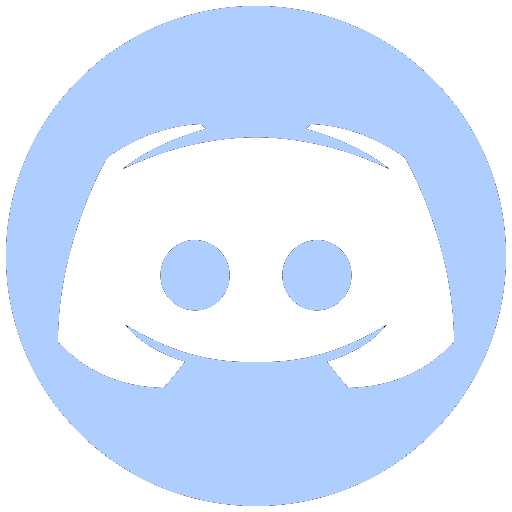
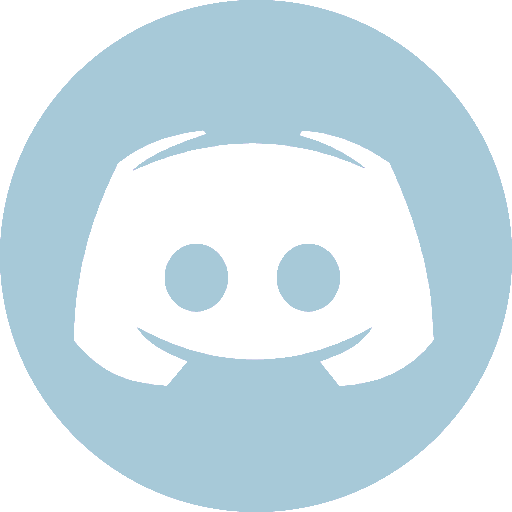
Changement du style

diff --git a/style.css b/style.css
@@ -4,12 +4,12 @@
 	font-family: calibri;
 	list-style-type: none;
 	font-size: 20px;
-	color: rgb(173, 206, 255, 1);
+	color: rgb(167, 201, 216, 1);
 }
 
 html, body {
 	height: 100%;
-	background-color: rgb(0, 9, 22);
+	background-color: rgb(21, 31, 55, 1);
 }
 
 
@@ -44,12 +44,12 @@ footer img {
 
 h1 {
 	font-size: 60px;
-	color: rgb(0, 9, 22);
+	color: rgb(21, 31, 55, 1);
 }
 
 h2 {
 	font-size: 50px;
-	color: rgba(0, 9, 22, 1);
+	color: rgb(21, 31, 55, 1);
 }
 
 h3 {
@@ -70,7 +70,11 @@ h5 {
 
 hr {
 	margin : 20px 0 0 0;
-	color: rgb(173, 206, 255, 0.5)
+	color: rgb(167, 201, 216, 0.5);
+}
+
+#logo {
+	width: 200px;
 }
 
 #page_content, footer {
@@ -116,7 +120,7 @@ section>ul>li, section>ul>li>ul>li {
 }
 
 .element {
-	background-color: rgb(173, 206, 255, 1);
+	background-color: rgb(167, 201, 216, 1);
 	width: 200px;
 	height: 200px;
 	margin : 10px;
@@ -129,7 +133,7 @@ section>ul>li, section>ul>li>ul>li {
 }
 
 .element:hover {
-	background-color: rgb(119, 174, 255, 1);
+	background-color: rgb(84, 146, 167, 1);
 }
 
 
@@ -139,13 +143,13 @@ section>ul>li, section>ul>li>ul>li {
 }
 
 .element p {
-	color: rgb(0, 14, 34);
+	color: rgb(21, 31, 55, 1);
 	margin : 0 5px 5px 5px;
 	text-align: center;
 }
 
 a {
-	color: rgb(119, 174, 255, 1);
+	color: rgb(84, 146, 167, 1);
 	font-weight: bold;
 	text-decoration: none;
 }
@@ -169,7 +173,7 @@ a:hover {
 	content: '';
 	position: absolute;
 	width: 2px;
-	background: rgb(119, 174, 255, 1);
+	background: rgb(84, 146, 167, 1);
 	top: 0;
 	bottom: 0;
 	left: 50%;
@@ -200,8 +204,8 @@ a:hover {
 	height: 16px;
 	top: calc(50% - 8px);
 	right: -8px;
-	background: #ffffff;
-	border: 2px solid rgb(119, 174, 255, 1);
+	background: rgb(167, 201, 216, 1);
+	border: 2px solid rgb(84, 146, 167, 1);
 	border-radius: 16px;
 	z-index: 1;
 }
@@ -217,7 +221,7 @@ a:hover {
 	height: 2px;
 	top: calc(50% - 1px);
 	right: 8px;
-	background: rgb(119, 174, 255, 1);
+	background: rgb(84, 146, 167, 1);
 	z-index: 1;
 }
 
@@ -232,7 +236,7 @@ a:hover {
 	text-align: center;
 	font-size: 14px;
 	font-weight: bold;
-	color: rgb(119, 174, 255, 1);
+	color: rgb(84, 146, 167, 1);
 	text-transform: uppercase;
 	letter-spacing: 1px;
 	z-index: 1;
@@ -253,12 +257,12 @@ a:hover {
 	height: 40px;
 	padding: 9px 0;
 	top: calc(50% - 20px);
-	background: rgb(173, 206, 255, 1);
-	border: 2px solid rgb(119, 174, 255, 1);
+	background: rgb(167, 201, 216, 1);
+	border: 2px solid rgb(84, 146, 167, 1);
 	border-radius: 40px;
 	text-align: center;
 	font-size: 18px;
-	color: rgb(119, 174, 255, 1);
+	color: rgb(84, 146, 167, 1);
 	z-index: 1;
 }
 
@@ -271,7 +275,7 @@ a:hover {
 }
 
 .container .content {
-	background: rgb(173, 206, 255, 1);
+	background: rgb(167, 201, 216, 1);
 	position: relative;
 }
 
@@ -288,15 +292,19 @@ a:hover {
 .container .content h4 {
 	margin: 0 0 10px 0;
 	font-weight: bold;
-	color: rgba(0, 9, 22, 1);
+	color: rgb(21, 31, 55, 1);
 }
 
-.container .content p, .container .content p span, .container .content p a {
+.container .content p, .container .content p span {
 	margin: 0;
-	color: rgba(0, 9, 22, 1);
+	color: rgb(21, 31, 55, 1);
 	font-size: 15px;
 }
 
+.container .content p a {
+	color: rgb(11, 66, 81, 1);
+	font-size: 15px;
+}
 
 @media (max-width: 767.98px) {
 	.timeline::after {
@@ -321,7 +329,7 @@ a:hover {
 	.container.left::before,
 	.container.right::before {
 		left: 100px;
-		border-color: transparent rgb(119, 174, 255, 1) transparent transparent;
+		border-color: transparent rgb(167, 201, 216, 1) transparent transparent;
 	}
 
 	.container.left .date,

diff --git a/index.html b/index.html
@@ -4,12 +4,14 @@
 	<head>
 		<meta charset="utf-8" />
 		<link rel="stylesheet" href="style.css" />
+		<link rel="icon" type="image/png" href="./img/logo.png" />
 		<title>Mer du nord</title>
 	</head>
 
 	<body>
 		<header>
 			<div id="main_title">
+				<img id="logo" src="./img/logo.png" alt="Logo">
 				<h1>Mer du nord</h1>
 				<h2>Région du DirtyBiologystan</h2>
 			</div>
